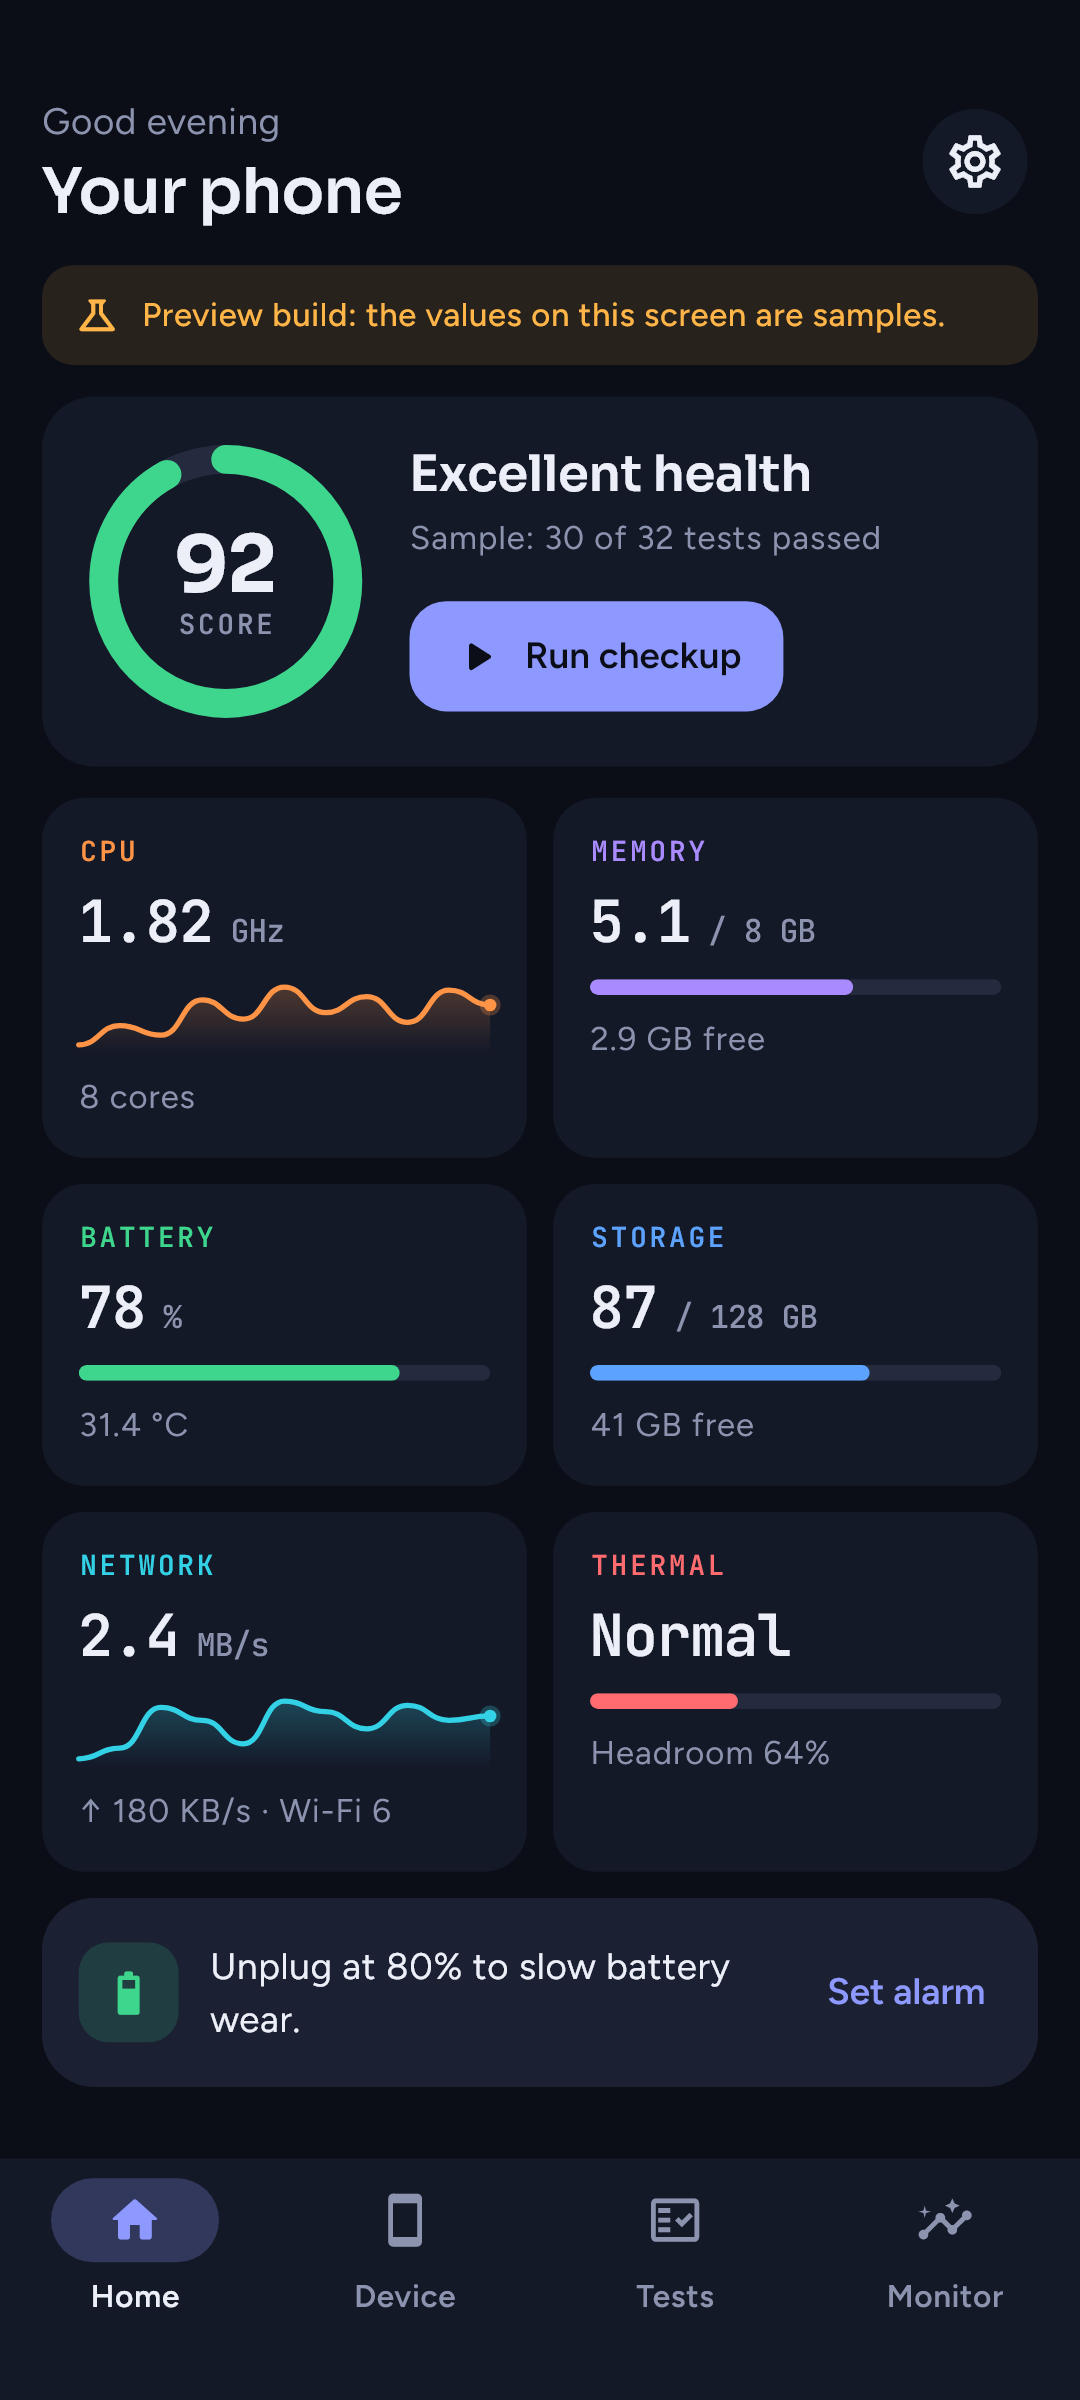
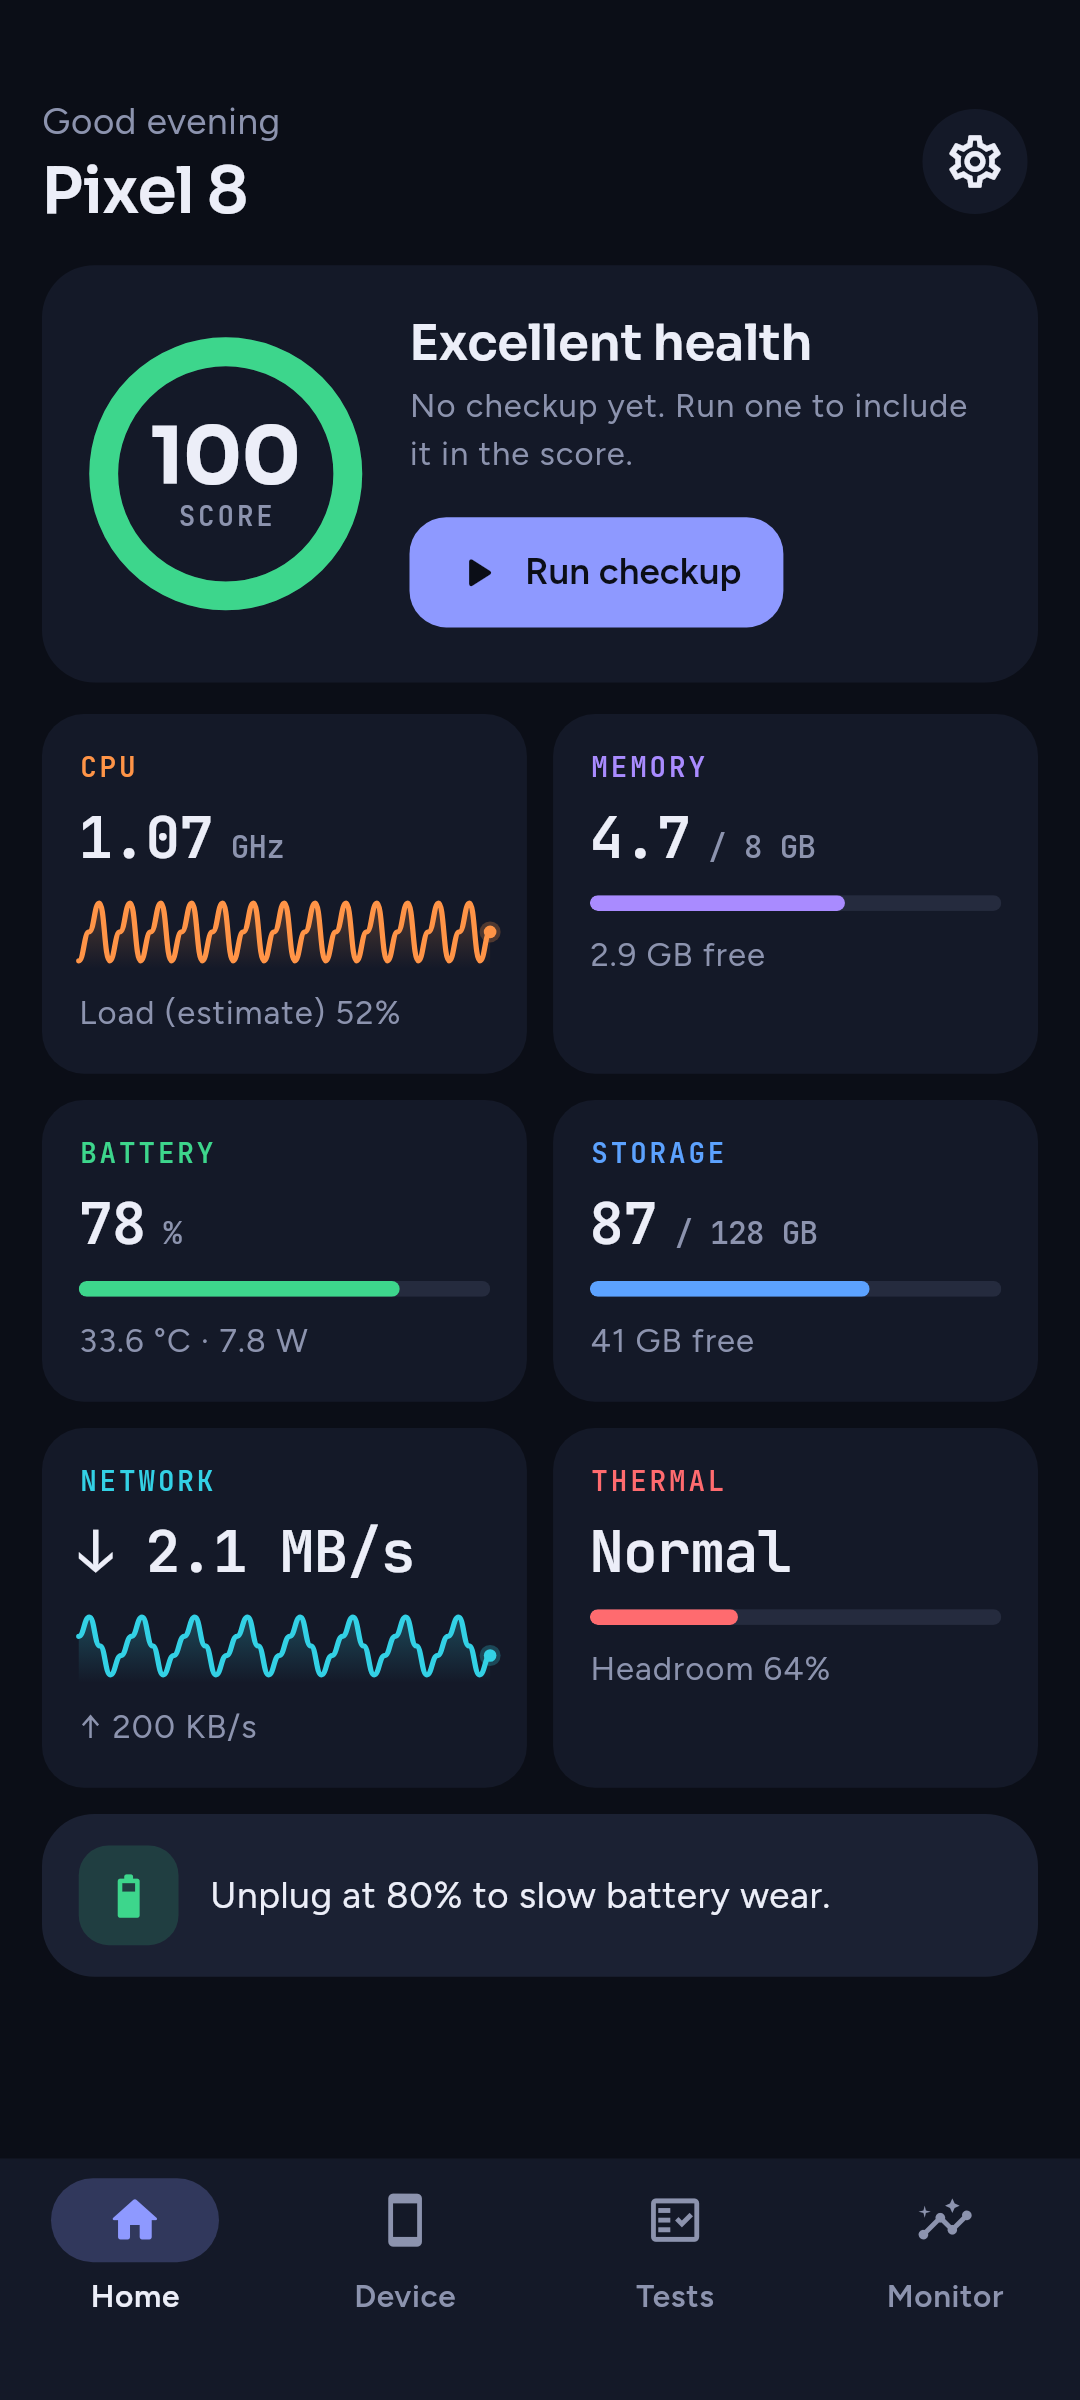
Stage 3: screenshots of the live screens
Claude-Session: https://claude.ai/code/session_01HzGgrf8mJzWqPVbmwGG37y

diff --git a/systemx/screenshots/screens_test.dart b/systemx/screenshots/screens_test.dart
@@ -14,6 +14,8 @@ import 'package:systemx/app.dart';
 import 'package:systemx/core/router.dart';
 import 'package:systemx/core/settings/settings.dart';
 import 'package:systemx/features/device/device_data.dart';
+import 'package:systemx/features/live/live_data.dart';
+import 'package:systemx/features/live/live_screens.dart';
 import 'package:systemx/platform/platform.dart';
 
 import '../test/fakes.dart';
@@ -41,7 +43,9 @@ Future<void> _shoot(
   bool onboarded = true,
   ThemeMode theme = ThemeMode.dark,
 }) async {
-  final api = FakeDeviceApi()..phoneGranted = true;
+  final api = FakeDeviceApi()
+    ..phoneGranted = true
+    ..vary = true;
   SharedPreferencesAsyncPlatform.instance =
       InMemorySharedPreferencesAsync.empty();
   final prefs = await SharedPreferencesWithCache.create(
@@ -53,6 +57,7 @@ Future<void> _shoot(
     // Pixel 8 sample values, since tests have no phone to read.
     deviceApiProvider.overrideWithValue(api),
     permissionApiProvider.overrideWithValue(FakePermissionApi(api)),
+    livePollingProvider.overrideWithValue(false),
   ]);
   if (onboarded) await c.read(settingsProvider.notifier).completeOnboarding();
   await c.read(settingsProvider.notifier).setThemeMode(theme);
@@ -70,6 +75,11 @@ Future<void> _shoot(
     c.read(routerProvider).go(route);
     await tester.pumpAndSettle();
   }
+  // A minute of live readings so charts have a shape.
+  for (var i = 0; i < 40; i++) {
+    await tester.runAsync(() => c.read(liveProvider.notifier).tick());
+  }
+  await tester.pumpAndSettle();
   await tester.pump(const Duration(seconds: 2));
   await expectLater(
       find.byType(MaterialApp), matchesGoldenFile('out/$name.png'));
@@ -97,6 +107,10 @@ void main() {
     await _shoot(tester, '12_device_security',
         Routes.category(DeviceCategory.security));
     await _shoot(tester, '13_device_sim', Routes.category(DeviceCategory.sim));
+    await _shoot(tester, '14_live_cpu', Routes.live(LiveMetric.cpu));
+    await _shoot(tester, '15_live_battery', Routes.live(LiveMetric.battery));
+    await _shoot(tester, '16_live_network', Routes.live(LiveMetric.network));
+    await _shoot(tester, '17_live_thermal', Routes.live(LiveMetric.thermal));
     addTearDown(tester.view.reset);
   });
 }
